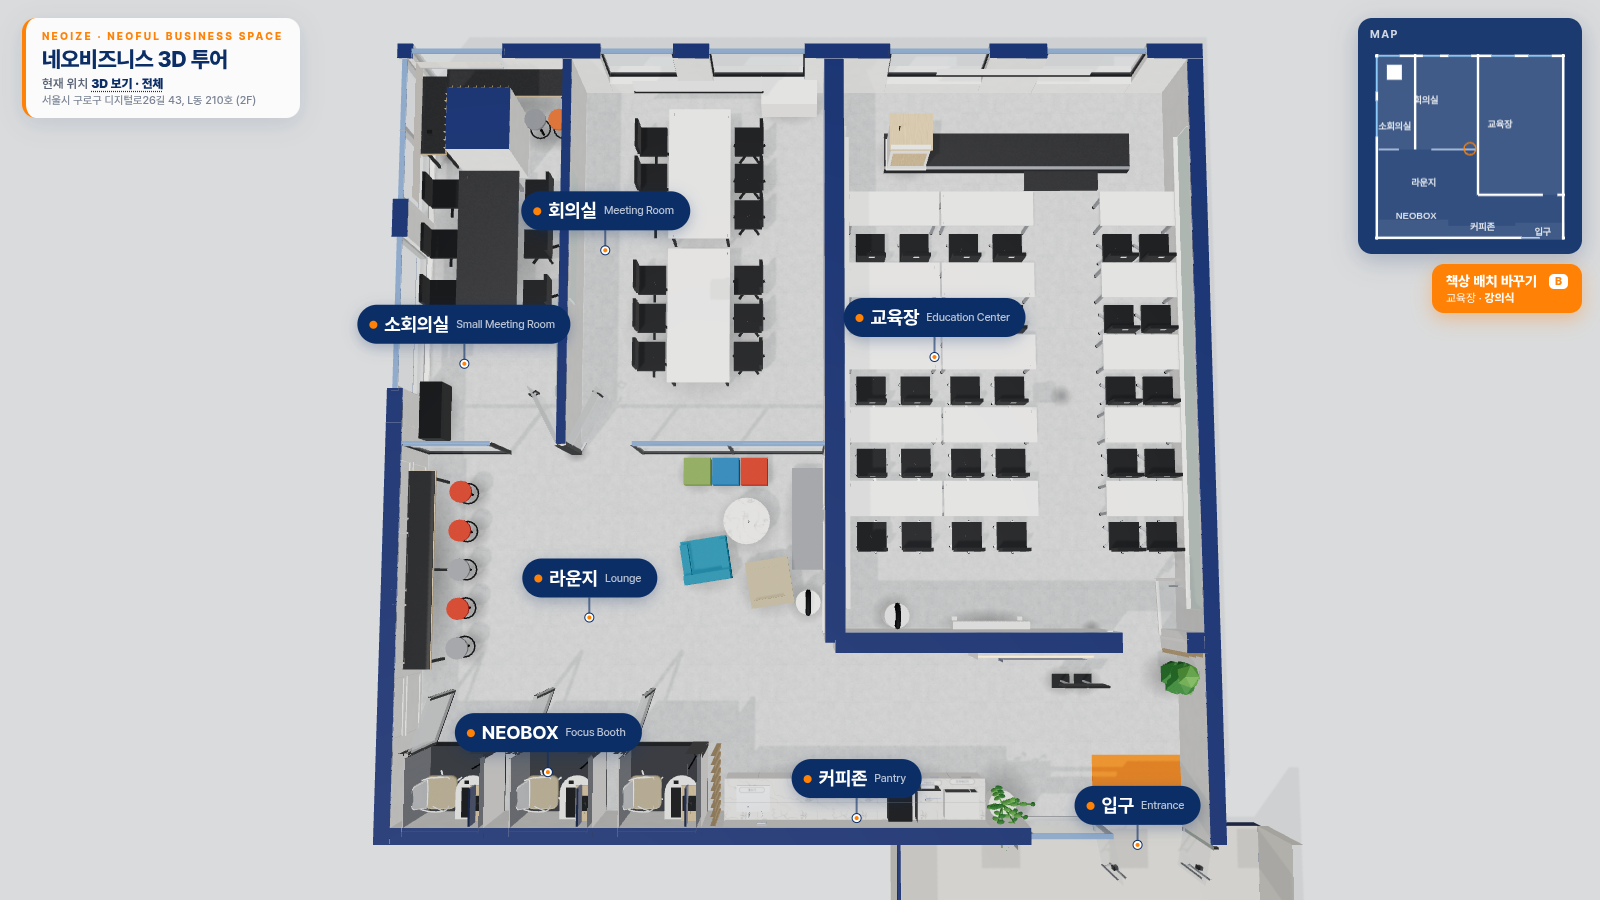
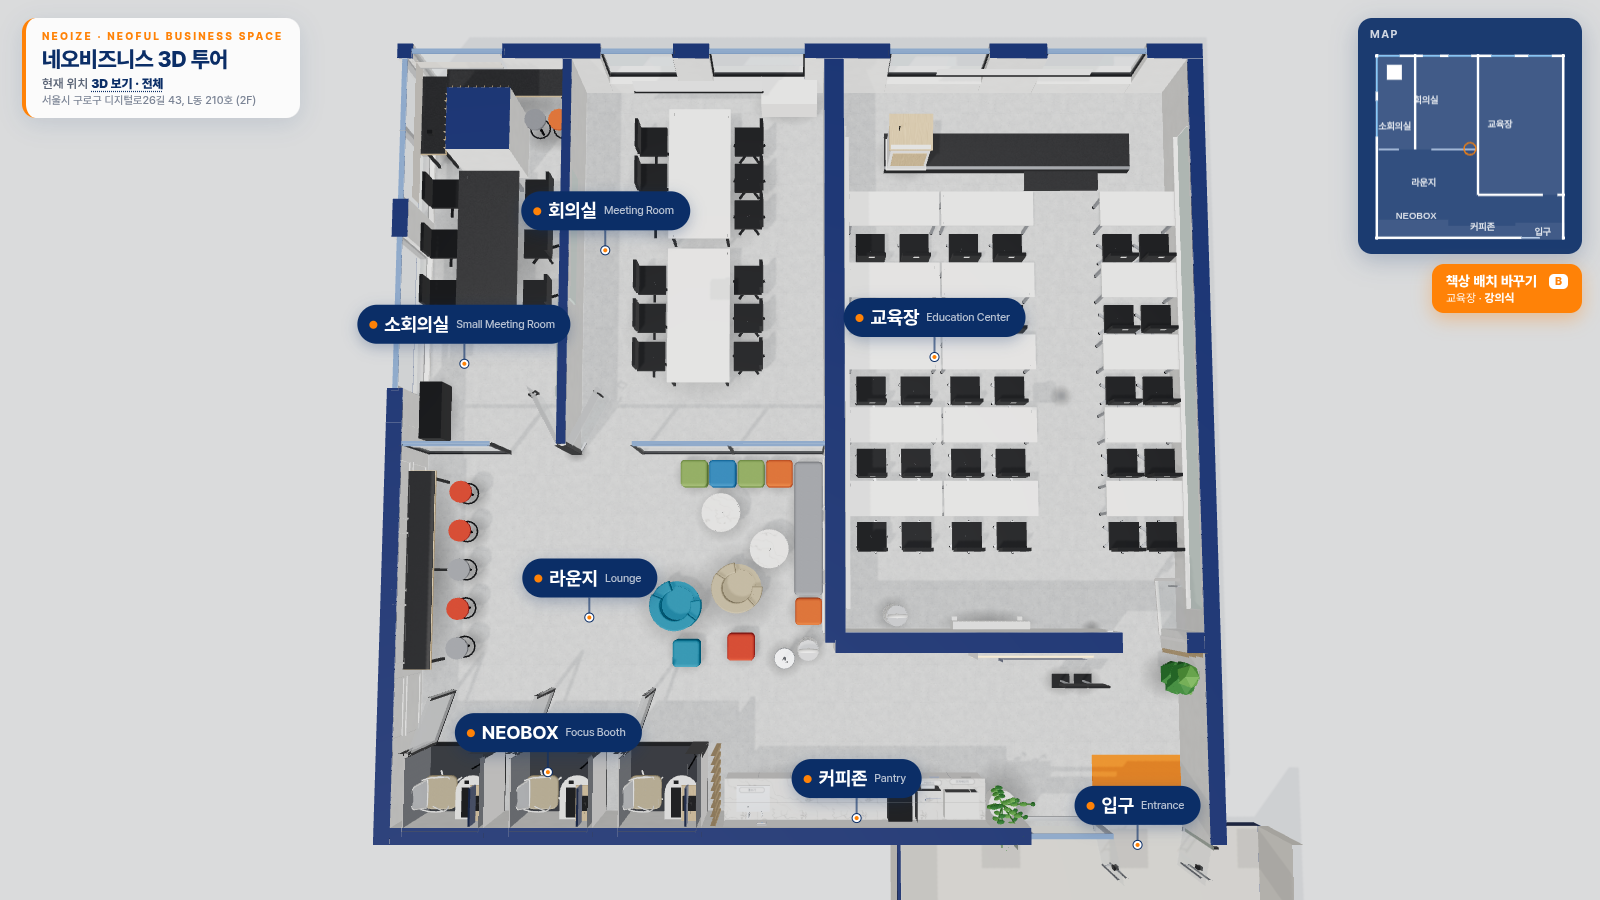
라운지 코너 가구를 사진처럼 정렬: 둥근 패브릭 큐브·L자 벤치, 터브 암체어, 대리석 카페 테이블, LG 청정기, 차단봉

Changed region(s): [[0.4062, 0.4978, 0.5312, 0.7467]]

diff --git a/app.js b/app.js
@@ -5,7 +5,7 @@ import { OrbitControls } from 'three/addons/OrbitControls.js';
 import { CSS2DRenderer, CSS2DObject } from 'three/addons/CSS2DRenderer.js';
 import { RoomEnvironment } from 'three/addons/RoomEnvironment.js';
 import { mergeGeometries } from 'three/addons/BufferGeometryUtils.js';
-import { makeTextures, textTexture } from './textures.js?v=11191345';
+import { makeTextures, textTexture } from './textures.js?v=11191400';
 
 const L = window.LAYOUT, B = L.building, H = B.ceiling, EYE = B.eye || 1.6, W = B.width, D = B.depth;
 const TW = Object.assign({ exterior: 0.24, interior: 0.14, thick: 0.3 }, B.wall || {});
@@ -382,16 +382,37 @@ function stool(g, o) {
   cyl(0.17, 0.17, 0.06, m, 0, h, 0, 16, g); cyl(0.02, 0.02, h, M.black, 0, 0, 0, 6, g);
   const r = new THREE.Mesh(new THREE.TorusGeometry(0.16, 0.012, 6, 16), M.black); r.rotation.x = Math.PI / 2; r.position.set(0, 0.28, 0); g.add(r);
 }
-function armchair(g, o) {
-  const m = matOf(o.color || 'fabricTeal');
-  box(0.72, 0.36, 0.68, m, 0, 0.04, 0, g); box(0.72, 0.36, 0.14, m, 0, 0.38, 0.27, g);
-  box(0.12, 0.2, 0.62, m, -0.3, 0.38, 0.03, g); box(0.12, 0.2, 0.62, m, 0.3, 0.38, 0.03, g);
-  box(0.6, 0.04, 0.56, M.black, 0, 0, 0, g);
+/* 둥근 모서리 상자: 패브릭 큐브·벤치용 (ExtrudeGeometry + bevel) — y 는 아래 끝 */
+function rbox(w, h, d, r, m, x, y, z, p = root) {
+  r = Math.min(r, w / 2 - 0.005, d / 2 - 0.005, h / 2 - 0.005);
+  const sw = w - 2 * r, sd = d - 2 * r, cr = Math.min(0.02, sw / 2, sd / 2), sh = new THREE.Shape();
+  sh.moveTo(-sw / 2 + cr, -sd / 2); sh.lineTo(sw / 2 - cr, -sd / 2); sh.quadraticCurveTo(sw / 2, -sd / 2, sw / 2, -sd / 2 + cr); sh.lineTo(sw / 2, sd / 2 - cr);
+  sh.quadraticCurveTo(sw / 2, sd / 2, sw / 2 - cr, sd / 2); sh.lineTo(-sw / 2 + cr, sd / 2); sh.quadraticCurveTo(-sw / 2, sd / 2, -sw / 2, sd / 2 - cr); sh.lineTo(-sw / 2, -sd / 2 + cr); sh.quadraticCurveTo(-sw / 2, -sd / 2, -sw / 2 + cr, -sd / 2);
+  const geo = new THREE.ExtrudeGeometry(sh, { depth: h - 2 * r, bevelEnabled: true, bevelThickness: r, bevelSize: r, bevelSegments: 4, curveSegments: 4 });
+  geo.rotateX(-Math.PI / 2); geo.translate(0, r, 0); geo.computeVertexNormals();
+  const g = new THREE.Mesh(geo, m); g.position.set(x, y, z); p.add(g); return g;
 }
-function cube(g, o) { const s = o.size || 0.42; box(s, o.h || s, s, matOf(o.color || 'fabricOrange'), 0, 0, 0, g); }
-function roundTable(g, o) {
-  const r = o.r || 0.36, h = o.h || 0.74;
-  cyl(r, r, 0.035, matOf(o.top || 'marble'), 0, h - 0.035, 0, 28, g); cyl(0.035, 0.035, h - 0.04, M.black, 0, 0, 0, 8, g); cyl(0.24, 0.26, 0.03, M.black, 0, 0, 0, 20, g);
+/* 부채꼴 고리(앞이 열린 C자) 압출: 터브 암체어 등받이·팔걸이. open = 앞쪽(로컬 -z) 열림 각도 */
+function arcWall(R0, R1, h, open, m, y, p, bevel = 0.025) {
+  const a0 = Math.PI / 2 + open / 2, a1 = Math.PI / 2 - open / 2 + Math.PI * 2, sh = new THREE.Shape();
+  sh.absarc(0, 0, R1, a0, a1, false); sh.absarc(0, 0, R0, a1, a0, true); sh.closePath();
+  const geo = new THREE.ExtrudeGeometry(sh, { depth: Math.max(0.01, h - 2 * bevel), bevelEnabled: true, bevelThickness: bevel, bevelSize: bevel * 0.8, bevelSegments: 3, curveSegments: 28 });
+  geo.rotateX(-Math.PI / 2); geo.translate(0, y + bevel, 0); geo.computeVertexNormals();
+  const g = new THREE.Mesh(geo, m); p.add(g); return g;
+}
+function armchair(g, o) {   // 라운지 터브 암체어(사진): 둥근 몸통 + 앞이 열린 C자 팔걸이/등받이, 등받이가 조금 더 높음, 낮은 검정 받침
+  const m = matOf(o.color || 'fabricTeal'), R = 0.37;
+  cyl(R - 0.03, R - 0.05, 0.05, M.black, 0, 0, 0, 28, g);                                   // 받침
+  cyl(R, R - 0.02, 0.3, m, 0, 0.05, 0, 32, g);                                                  // 몸통(좌석 아래)
+  cyl(R - 0.1, R - 0.1, 0.07, m, 0, 0.35, -0.02, 28, g);                                        // 방석
+  arcWall(R - 0.12, R, 0.27, 1.75, m, 0.35, g);                                                 // 팔걸이 높이까지 C자 벽
+  arcWall(R - 0.12, R, 0.2, 3.4, m, 0.6, g);                                                    // 등받이(뒤쪽만 더 높게)
+}
+function cube(g, o) { const s = o.size || 0.42; rbox(s, o.h || s, s, 0.045, matOf(o.color || 'fabricOrange'), 0, 0, 0, g); }   // 패브릭 큐브 스툴(둥근 모서리)
+function roundTable(g, o) {   // 카페 원형 테이블: 대리석 상판 + 가는 검정 기둥 + 둥근 검정 원판 받침
+  const r = o.r || 0.3, h = o.h || 0.72;
+  cyl(r, r, 0.03, matOf(o.top || 'marble'), 0, h - 0.03, 0, 36, g); cyl(r - 0.01, r - 0.01, 0.012, M.black, 0, h - 0.042, 0, 36, g);
+  cyl(0.022, 0.022, h - 0.06, M.black, 0, 0.02, 0, 10, g); cyl(0.2, 0.22, 0.02, M.black, 0, 0, 0, 28, g); cyl(0.06, 0.08, 0.04, M.black, 0, 0.02, 0, 16, g);
 }
 function plant(g, o) {
   const s = o.scale || 1;
@@ -526,7 +547,13 @@ function tvWall(g, o) {
   box(w - 0.1, 0.025, 0.03, M.glow, 0, 0.37, -0.07, g); box(w - 0.1, 0.025, 0.03, M.glow, 0, 2.26, -0.07, g);
 }
 function signStand(g) { box(0.32, 0.5, 0.03, M.black, 0, 0.7, 0, g); box(0.025, 0.7, 0.025, M.metal, 0, 0, 0, g); box(0.28, 0.02, 0.22, M.black, 0, 0, 0, g); }
-function bench(g, o) { box(o.w || 0.5, o.h || 0.4, o.d || 1.2, matOf(o.color || 'fabricGray'), 0, 0, 0, g); }
+function bench(g, o) {   // 낮은 패브릭 벤치(둥근 모서리) + 얇은 검정 받침
+  const w = o.w || 0.45, h = o.h || 0.42, d = o.d || 1.2, m = matOf(o.color || 'fabricGray');
+  box(w - 0.06, 0.04, d - 0.06, M.black, 0, 0, 0, g); rbox(w, h - 0.04, d, 0.05, m, 0, 0.04, 0, g);
+}
+function stanchion(g) {   // 크롬 차단봉(벨트 릴) — 둥근 받침 + 기둥 + 위 캡/벨트 카세트
+  cyl(0.16, 0.17, 0.03, M.metal, 0, 0, 0, 24, g); cyl(0.028, 0.028, 0.9, M.metal, 0, 0.03, 0, 14, g); cyl(0.045, 0.04, 0.1, M.metal, 0, 0.88, 0, 16, g); box(0.012, 0.05, 0.03, M.black, 0.05, 0.9, 0, g);
+}
 function cabinet(g, o) { box(o.w || 1.2, o.h || 0.7, o.d || 0.4, matOf(o.color || 'white'), 0, 0, 0, g); }
 function block(g, o) { box(o.w || 0.1, o.h || 0.1, o.d || 0.1, matOf(o.color || 'black'), 0, o.y || 0, 0, g); }   // 단순 박스(소품)
 function barCounter(g, o) {
@@ -535,7 +562,14 @@ function barCounter(g, o) {
   const n = Math.max(1, Math.round(long / 1.4));
   for (let i = 0; i <= n; i++) { const p = -long / 2 + 0.1 + i * (long - 0.2) / n; const sh = (alongX ? d : w) / 2 - 0.06; for (const s of [-1, 1]) box(0.04, h - 0.08, 0.04, M.black, alongX ? p : s * sh, 0, alongX ? s * sh : p, g); }
 }
-function purifier(g) { cyl(0.19, 0.19, 0.95, M.white, 0, 0, 0, 20, g); const r = new THREE.Mesh(new THREE.TorusGeometry(0.16, 0.04, 8, 20), M.black); r.position.set(0, 1.05, 0); r.rotation.y = Math.PI / 2; g.add(r); }
+function purifier(g) {   // LG 공기청정기: 흰 원통 모듈 2단 + 사이 회색 띠 + 위 원형 센서 헤드(세운 링)
+  cyl(0.16, 0.165, 0.03, plain(0xd8d9db), 0, 0, 0, 28, g);
+  cyl(0.16, 0.16, 0.44, M.white, 0, 0.03, 0, 32, g); cyl(0.162, 0.162, 0.025, plain(0xb9bcc0), 0, 0.47, 0, 32, g); cyl(0.16, 0.16, 0.44, M.white, 0, 0.495, 0, 32, g);
+  cyl(0.155, 0.16, 0.02, plain(0xcfd2d6), 0, 0.935, 0, 32, g);
+  const r = new THREE.Mesh(new THREE.TorusGeometry(0.13, 0.025, 12, 32), M.white); r.position.set(0, 1.11, 0); g.add(r);
+  const dsk = new THREE.Mesh(new THREE.CircleGeometry(0.11, 28), plain(0x2a2d33)); dsk.position.set(0, 1.11, -0.002); dsk.rotation.y = Math.PI; g.add(dsk); const dsk2 = dsk.clone(); dsk2.position.z = 0.002; dsk2.rotation.y = 0; g.add(dsk2);
+  cyl(0.03, 0.04, 0.03, M.white, 0, 0.955, 0, 12, g);
+}
 function mat(g, o) { const m = box(o.w || 2, 0.006, o.d || 1.2, matOf(o.color || 'orange'), 0, 0, 0, g); g.userData.noCollide = true; g.userData.noBlob = true; return m; }
 function booth(g, o) {   // NEOBOX 1인 부스: 앞(문) = 로컬 -z
   const w = o.w || 1.85, d = o.d || 1.7, ph = 2.2, t = 0.07, x0 = -w / 2, x1 = w / 2, z0 = -d / 2, z1 = d / 2;
@@ -637,7 +671,7 @@ function slats(o) {   // from → to 선을 따라 세로 우드 루버
   if (o.thick) box(horiz ? Math.abs(bx - ax) + 0.1 : 0.08, 0.04, horiz ? 0.08 : Math.abs(bz - az) + 0.1, M.oak, (ax + bx) / 2, h, (az + bz) / 2, g);
   g.userData.noBlob = true; return g;
 }
-const BUILDERS = { stage, podium, block, chair, stool, armchair, cube, roundTable, plant, desk, deskPair, tableSet, whiteboard, screen, ceilingScreen, speaker, island, clock: wallClock, exitSign, heater, tvStand, tvWall, signStand, bench, cabinet, barCounter, purifier, mat, booth, pantry, zzPlant };
+const BUILDERS = { stage, podium, block, chair, stool, armchair, cube, roundTable, plant, desk, deskPair, tableSet, whiteboard, screen, ceilingScreen, speaker, island, clock: wallClock, exitSign, heater, tvStand, tvWall, signStand, bench, cabinet, barCounter, purifier, stanchion, mat, booth, pantry, zzPlant };
 const NOBLOB = new Set(['clock', 'exitSign', 'stage', 'whiteboard', 'screen', 'ceilingScreen', 'tvWall', 'mat', 'slats', 'booth']);
 const blobs = [];
 function place(o, parent = root) {

diff --git a/layout.js b/layout.js
@@ -311,14 +311,21 @@ window.LAYOUT = {
     { type:'barCounter', x:0.39, z:8.1, w:0.5, d:3.0, h:1.04 },         // 서쪽 몰딩 벽 바 테이블
     { type:'array', xs:[0.97], zs:[6.9, 7.5, 8.1, 8.7, 9.3],
       item:{ type:'stool', h:0.72 }, colors:['fabricRed','fabricRed','fabricGray','fabricRed','fabricGray'] },
-    { type:'cube', x:4.6,  z:6.55, color:'fabricGreen' },
-    { type:'cube', x:5.05, z:6.55, color:'fabricBlue' },
-    { type:'cube', x:5.5,  z:6.55, color:'fabricRed' },
-    { type:'bench', x:6.35, z:7.3, w:0.5, d:1.6, color:'fabricGray' },  // 교육장 벽 쪽 회색 벤치
-    { type:'roundTable', x:5.4, z:7.35 },
-    { type:'armchair', x:4.75, z:7.95, rot:9,  color:'fabricTeal' },
-    { type:'armchair', x:5.75, z:8.3, rot:99, color:'fabricBeige' },
-    { type:'purifier', x:6.35, z:8.6 },
+    // 라운지 북동쪽 코너 (사진: NEOBOX 쪽에서 회의실 유리를 본 모습) — 회의실 유리(z6.22) 앞 큐브 줄 + 교육장 몰딩 벽(x6.6) 앞 L자 회색 벤치
+    { type:'cube', x:4.55, z:6.58, color:'fabricGreen' },
+    { type:'cube', x:5.0,  z:6.58, color:'fabricBlue' },
+    { type:'cube', x:5.45, z:6.58, color:'fabricGreen' },
+    { type:'cube', x:5.9,  z:6.58, color:'fabricOrange' },
+    { type:'bench', x:6.36, z:7.45, w:0.45, d:2.1, h:0.42, color:'fabricGray' },   // 몰딩 벽 아래 긴 벤치 z6.4–8.5
+    { type:'cube', x:6.36, z:8.75, color:'fabricOrange' },                         // 벤치 남쪽 끝 주황 큐브
+    { type:'roundTable', x:5.0,  z:7.22, r:0.3, h:0.72 },                          // 큐브 앞 카페 테이블
+    { type:'roundTable', x:5.75, z:7.78, r:0.3, h:0.72 },                          // 벤치 앞(코너 쪽) 카페 테이블
+    { type:'armchair', x:4.3,  z:8.65, rot:-30, color:'fabricTeal' },              // 앞쪽 청록 터브 암체어
+    { type:'armchair', x:5.25, z:8.38, rot:-40, color:'fabricBeige' },             // 뒤 오른쪽 베이지 암체어
+    { type:'cube', x:4.45, z:9.4, color:'fabricTeal' },                            // 암체어 앞 오토만
+    { type:'cube', x:5.3,  z:9.3, color:'fabricRed' },
+    { type:'purifier', x:6.35, z:9.32 },                                           // LG 공기청정기(몰딩 벽 쪽)
+    { type:'stanchion', x:5.98, z:9.5 },                                           // 크롬 차단봉
 
     /* --- 입구 --- */
     { type:'mat', x:11.52, z:11.4, w:1.4, d:0.8, color:'orange' }

diff --git a/index.html b/index.html
@@ -144,8 +144,8 @@ body.walk .tag{display:none}   /* 걷기: 방 이름 핀은 숨기고 왼쪽 위
   </div>
 </aside>
 <!-- 공간 설정: 치수·가구 배치는 layout.js 에서 수정 -->
-<script src="layout.js?v=11191345"></script>
+<script src="layout.js?v=11191400"></script>
 <script type="importmap">{"imports":{"three":"./lib/three.module.min.js","three/addons/":"./lib/addons/"}}</script>
-<script type="module" src="app.js?v=11191345"></script>
+<script type="module" src="app.js?v=11191400"></script>
 </body>
 </html>

diff --git a/수정방법.md b/수정방법.md
@@ -282,3 +282,9 @@ ceiling: { panels:[ { rect:[x1,z1,x2,z2], nx:2, nz:3 } ],  aircon:[[x,z], ...] }
 - 입구 바깥에 짧은 복도(`corridor.rect`)가 있고, 바깥 면에 세이지 그린 포털(`corridor.portal`: 간판 글씨 text, 호수 room, 색 color)이 붙어 있어요. 걷기 모드에서 입구 문을 E로 열면 복도로 나갈 수 있어요.
 - 교육장 스피커는 서쪽 벽 높은 곳 2개(z0.5, z8.2) — `speakers` 목록.
 - 교육장 단상은 x7.6–11.6, z1.0–1.6(높이 0.2). 뒤쪽(창문 쪽 z0.24–1.0)과 양 끝을 비워 단상 뒤로 걸어갈 수 있어요. 전동 스크린은 z0.4.
+
+## 라운지 북동쪽 코너 (11/19 사진)
+- 회의실 유리(z6.22) 앞 큐브 줄(초록·파랑·초록·주황, x4.55–5.9) → 교육장 몰딩 벽 아래 L자 회색 `bench`(x6.36, z6.4–8.5) → 벤치 끝 주황 큐브.
+- 카페 원형 테이블 2개(`roundTable` r0.3, h0.72: 대리석 상판 + 검정 기둥/원판), 터브 암체어 2개(`armchair`, 청록·베이지), 오토만 큐브 2개, LG 공기청정기(`purifier`, 흰 원통 2단 + 원형 센서 헤드), 크롬 차단봉(`stanchion`).
+- `cube`·`bench` 는 둥근 모서리(패브릭), `armchair` 는 둥근 몸통 + 앞이 열린 C자 팔걸이/등받이로 그려요. rot 으로 바라보는 방향을 바꿀 수 있어요.
+- NEOBOX → 회의실/소회의실 문 쪽 통로(x2–3.9)는 비워 두세요.
